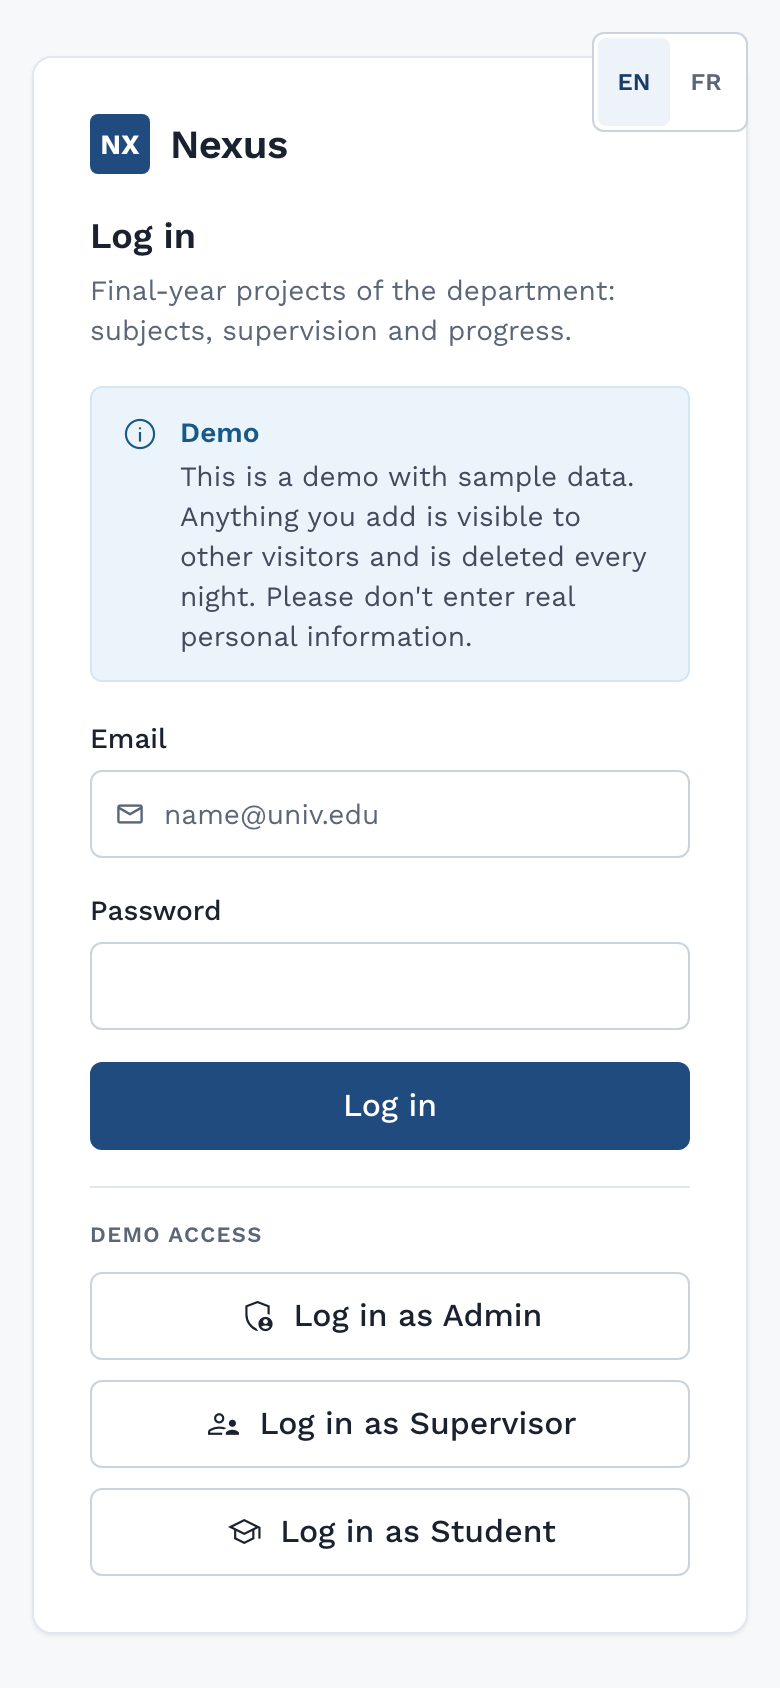
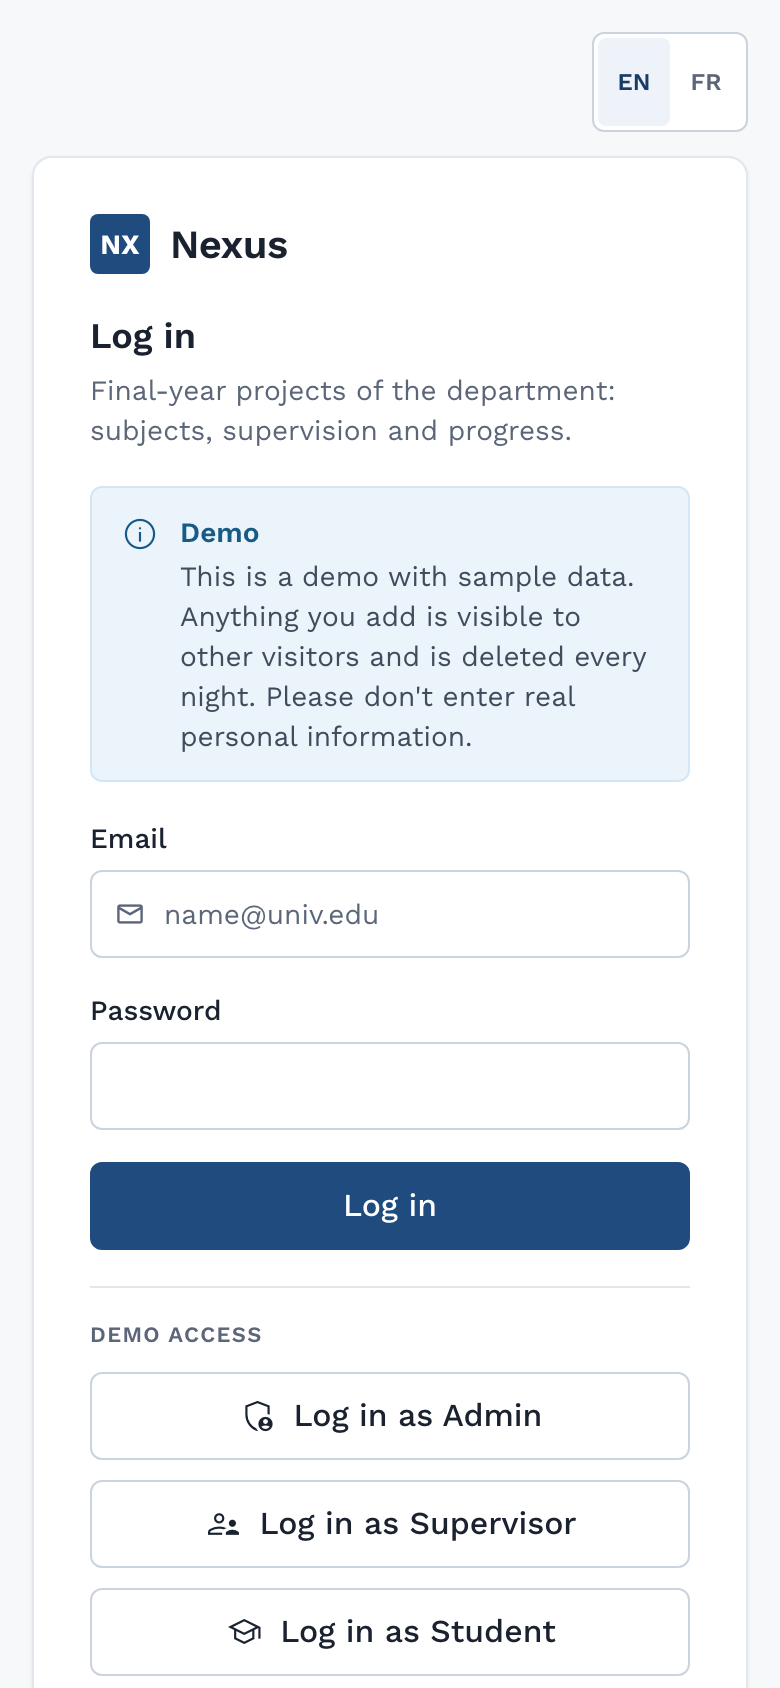
Wire screenshot batch 2: mobile demo galleries and Nexus
Eight phone shots per mobile demo (the rest kept as commented entries),
ten Nexus shots with EN/FR alt text; README status updated.

diff --git a/content/projects/depogro/meta.ts b/content/projects/depogro/meta.ts
@@ -39,26 +39,27 @@ const meta: ProjectMeta = {
   liveUrl: null,
   shots: shotsFor("depogro", [
     ["client-home-mobile", "Shop home in French: a promotion banner, offers and the catalogue.", "Accueil de la boutique en français : bannière de promotion, offres et catalogue."],
-    ["intro-mobile", "Opening screen with the sample-data notice in Arabic, French and English.", "Écran d'ouverture avec l'avis sur les données d'exemple en arabe, français et anglais."],
-    ["onboarding-mobile", "Onboarding screen with a language choice and the sign-in button.", "Écran de présentation avec le choix de la langue et le bouton de connexion."],
     ["role-picker-mobile", "Demo login: choose Client, Sales rep or Deliverer.", "Connexion de démo : choisir Client, Commercial ou Livreur."],
     ["client-category-mobile", "Oils and preserves category with prices and add-to-cart buttons.", "Catégorie huiles et conserves, avec prix et boutons d'ajout au panier."],
     ["client-product-mobile", "Product page with the unit price and bulk discounts.", "Fiche produit avec le prix unitaire et les remises par quantité."],
     ["client-cart-mobile", "Shop's cart with quantities, totals and the minimum order amount.", "Panier de la boutique avec quantités, totaux et montant minimum de commande."],
-    ["client-orders-mobile", "Order history with the status and amount of each order.", "Historique des commandes avec le statut et le montant de chaque commande."],
     ["client-tracking-mobile", "Order tracking: pending, confirmed, shipped and delivered steps.", "Suivi de commande : étapes en attente, confirmée, expédiée et livrée."],
     ["client-home-ar-mobile", "The same shop home in Arabic, laid out right to left.", "Le même accueil de boutique en arabe, de droite à gauche."],
-    ["rep-clients-mobile", "Sales rep's list of client shops with an \"Add a client\" button.", "Liste des boutiques clientes du commercial avec un bouton « Ajouter un client »."],
-    ["rep-cart-mobile", "Sales rep's cart for an order taken on a client's behalf.", "Panier du commercial pour une commande passée au nom d'un client."],
-    ["rep-profile-mobile", "Sales rep's profile with progress toward the sales target.", "Profil du commercial avec la progression vers l'objectif de ventes."],
     ["deliverer-dashboard-mobile", "Deliverer dashboard with availability and four tiles: completed, pending, collected and earnings.", "Tableau de bord du livreur avec sa disponibilité et quatre tuiles : terminées, en attente, encaissé et gains."],
-    ["deliverer-deliveries-mobile", "Deliverer's assigned deliveries with Accept buttons.", "Livraisons assignées au livreur avec des boutons Accepter."],
     ["admin-orders", "Admin dashboard: orders with their status and filters.", "Tableau de bord : les commandes avec leur statut et des filtres."],
     ["admin-order-detail", "Order detail in the admin dashboard, with the customer, items and status.", "Détail d'une commande dans le tableau de bord, avec le client, les articles et le statut."],
     ["admin-order-shipped", "The same order after it is marked as shipped.", "La même commande après son passage au statut expédiée."],
     ["admin-products", "Product catalogue in the admin dashboard.", "Catalogue des produits dans le tableau de bord."],
     ["admin-ambassadors", "Ambassadors in the admin dashboard, with their sales progress.", "Les ambassadeurs dans le tableau de bord, avec leur progression des ventes."],
     ["admin-ads", "Ads shown in the app, managed from the admin dashboard.", "Les publicités affichées dans l'application, gérées depuis le tableau de bord."],
+    // More screenshots in public/shots/depogro/, not shown in the gallery (uncomment to show):
+    // ["intro-mobile", "Opening screen with the sample-data notice in Arabic, French and English.", "Écran d'ouverture avec l'avis sur les données d'exemple en arabe, français et anglais."],
+    // ["onboarding-mobile", "Onboarding screen with a language choice and the sign-in button.", "Écran de présentation avec le choix de la langue et le bouton de connexion."],
+    // ["client-orders-mobile", "Order history with the status and amount of each order.", "Historique des commandes avec le statut et le montant de chaque commande."],
+    // ["rep-clients-mobile", "Sales rep's list of client shops with an \"Add a client\" button.", "Liste des boutiques clientes du commercial avec un bouton « Ajouter un client »."],
+    // ["rep-cart-mobile", "Sales rep's cart for an order taken on a client's behalf.", "Panier du commercial pour une commande passée au nom d'un client."],
+    // ["rep-profile-mobile", "Sales rep's profile with progress toward the sales target.", "Profil du commercial avec la progression vers l'objectif de ventes."],
+    // ["deliverer-deliveries-mobile", "Deliverer's assigned deliveries with Accept buttons.", "Livraisons assignées au livreur avec des boutons Accepter."],
   ]),
   tryThis: {
     en: [

diff --git a/content/projects/membership-app/meta.ts b/content/projects/membership-app/meta.ts
@@ -40,19 +40,20 @@ const meta: ProjectMeta = {
   liveUrl: null,
   shots: shotsFor("membership-app", [
     ["member-home-mobile", "Member home: level, weekly challenge, orders, coin balance and the main modules.", "Accueil du membre : niveau, défi de la semaine, commandes, solde de pièces et modules principaux."],
-    ["intro-mobile", "Opening screen with the sample-data notice and a Continue button.", "Écran d'ouverture avec l'avis sur les données d'exemple et un bouton Continuer."],
     ["role-picker-mobile", "Demo login: choose Member, Coach or Founder, no password.", "Connexion de démo : choisir Membre, Coach ou Fondateur, sans mot de passe."],
     ["member-academy-mobile", "Academy: tracks to choose from and the chapters of the current track.", "Académie : les parcours au choix et les chapitres du parcours en cours."],
     ["member-chapter-mobile", "A chapter with its lessons, progress and the chapter quiz.", "Un chapitre avec ses leçons, la progression et le quiz du chapitre."],
     ["member-majlis-mobile", "Community hub with stats, a members-only room and chat rooms.", "Espace communauté avec statistiques, salon réservé aux membres et salons de discussion."],
-    ["member-fitness-mobile", "Fitness coaching: find a coach, the member's coach and subscription, and categories.", "Coaching sportif : trouver un coach, le coach et l'abonnement du membre, et les catégories."],
-    ["member-profile-mobile", "Member profile with level, XP, score and the next target.", "Profil du membre avec niveau, XP, score et prochain objectif."],
     ["member-home-ar-mobile", "The member home in Arabic, laid out right to left.", "L'accueil du membre en arabe, de droite à gauche."],
-    ["coach-dashboard-mobile", "Coach dashboard with active clients, pending intakes, messages and monthly revenue.", "Tableau de bord du coach : clients actifs, admissions en attente, messages et revenus du mois."],
-    ["coach-clients-mobile", "Coach's client list filtered by status.", "Liste des clients du coach, filtrée par statut."],
     ["coach-intake-review-mobile", "Intake review: the client's plan, details, goals and lifestyle before approval.", "Examen d'une admission : formule, informations, objectifs et mode de vie du client avant validation."],
     ["founder-reports-mobile", "Founder's moderation queue with reported messages and actions.", "File de modération du fondateur avec les messages signalés et les actions."],
-    ["founder-team-mobile", "Team page: invite by email, pending invitations and members.", "Page équipe : invitation par e-mail, invitations en attente et membres."],
+    // More screenshots in public/shots/membership-app/, not shown in the gallery (uncomment to show):
+    // ["intro-mobile", "Opening screen with the sample-data notice and a Continue button.", "Écran d'ouverture avec l'avis sur les données d'exemple et un bouton Continuer."],
+    // ["member-fitness-mobile", "Fitness coaching: find a coach, the member's coach and subscription, and categories.", "Coaching sportif : trouver un coach, le coach et l'abonnement du membre, et les catégories."],
+    // ["member-profile-mobile", "Member profile with level, XP, score and the next target.", "Profil du membre avec niveau, XP, score et prochain objectif."],
+    // ["coach-dashboard-mobile", "Coach dashboard with active clients, pending intakes, messages and monthly revenue.", "Tableau de bord du coach : clients actifs, admissions en attente, messages et revenus du mois."],
+    // ["coach-clients-mobile", "Coach's client list filtered by status.", "Liste des clients du coach, filtrée par statut."],
+    // ["founder-team-mobile", "Team page: invite by email, pending invitations and members.", "Page équipe : invitation par e-mail, invitations en attente et membres."],
   ]),
   tryThis: {
     en: [

diff --git a/content/projects/delivair/meta.ts b/content/projects/delivair/meta.ts
@@ -38,7 +38,6 @@ const meta: ProjectMeta = {
   liveUrl: null,
   shots: shotsFor("delivair", [
     ["home-mobile", "Home screen: a plane over a pink and green sky, with From and To fields to search for travellers.", "Écran d'accueil : un avion sur un ciel rose et vert, avec les champs Départ et Arrivée pour chercher des voyageurs."],
-    ["intro-mobile", "Opening screen with the sample-data notice and a Continue button.", "Écran d'ouverture avec l'avis sur les données d'exemple et un bouton Continuer."],
     ["login-mobile", "Login screen with the \"Continue as demo user\" button.", "Écran de connexion avec le bouton pour continuer en utilisateur de démo."],
     ["search-rules-mobile", "Search from Tunis to Paris, with stacked cards on luggage rules before confirming.", "Recherche de Tunis à Paris, avec des cartes empilées sur les règles des bagages avant de confirmer."],
     ["search-flight-mobile", "Search animation: the plane flies while the app looks for travellers.", "Animation de recherche : l'avion vole pendant que l'application cherche des voyageurs."],
@@ -49,6 +48,8 @@ const meta: ProjectMeta = {
     ["admin-dashboard", "Admin dashboard with monthly charts of users and trips.", "Tableau de bord d'administration avec les graphiques mensuels des utilisateurs et des trajets."],
     ["admin-users", "Admin list of users with city, phone, email and rating.", "Liste d'administration des utilisateurs avec ville, téléphone, e-mail et note."],
     ["admin-trips", "Admin list of posted trips with route, dates, contents and weight.", "Liste d'administration des trajets publiés avec trajet, dates, contenu et poids."],
+    // More screenshots in public/shots/delivair/, not shown in the gallery (uncomment to show):
+    // ["intro-mobile", "Opening screen with the sample-data notice and a Continue button.", "Écran d'ouverture avec l'avis sur les données d'exemple et un bouton Continuer."],
   ]),
   tryThis: {
     en: [

diff --git a/content/projects/nexus/meta.ts b/content/projects/nexus/meta.ts
@@ -38,8 +38,20 @@ const meta: ProjectMeta = {
     url: null
   },
   liveUrl: null,
-  // TODO (shots batch 2/3): add screenshots with shotsFor("nexus", [...]).
-  shots: shotsFor("nexus", []),
+  shots: shotsFor("nexus", [
+    ["admin-dashboard-desktop", "Admin dashboard with statistics on projects, students and supervisors.", "Tableau de bord administrateur avec les statistiques des projets, étudiants et encadrants."],
+    ["pfes-desktop", "List of final-year projects with status, student and supervisor.", "Liste des projets de fin d'études avec statut, étudiant et encadrant."],
+    ["pfe-detail-desktop", "A project page: status, progress, people and deliverables.", "Page d'un projet : statut, progression, personnes et livrables."],
+    ["archive-search-desktop", "Archive search across past years, filtered by a keyword.", "Recherche dans les archives des années passées, filtrée par mot-clé."],
+    ["supervisor-dashboard-desktop", "Supervisor dashboard with the projects they follow.", "Tableau de bord de l'encadrant avec les projets qu'il suit."],
+    ["student-my-pfe-desktop", "Student view of their own project and its progress.", "Vue étudiant de son projet et de sa progression."],
+    ["admin-dashboard-fr-desktop", "The admin dashboard in French.", "Le tableau de bord administrateur en français."],
+    ["login-desktop", "Login page with the demo notice and the three demo-login buttons.", "Page de connexion avec l'avis de démo et les trois boutons de connexion de démo."],
+    ["student-my-pfe-mobile", "Student project view on a phone.", "Vue du projet étudiant sur téléphone."],
+    ["login-mobile", "Login page on a phone.", "Page de connexion sur téléphone."],
+    // More screenshots in public/shots/nexus/, not shown in the gallery (uncomment to show):
+    // ["archive-fr-desktop", "The archive in French.", "Les archives en français."],
+  ]),
   architecture: [
     {
       title: "Client",

diff --git a/README.md b/README.md
@@ -2,7 +2,7 @@
 
 The portfolio site of Amine Amdouni, full-stack developer: mobile apps, full-stack products, e-commerce projects and client sites, each with an interactive demo, a live demo, screenshots or a link to the live site. English and French, light and dark.
 
-Status: content in place. All 18 write-ups (EN/FR), demo and live URLs are set. Projects still waiting for screenshots (see `shots: shotsFor("<slug>", [])` in their `meta.ts`) show marked placeholder images.
+Status: content in place. All 18 write-ups (EN/FR), demo and live URLs and screenshots are set, except Sift's screenshots (`shots: shotsFor("sift", [])`), whose gallery shows marked placeholder images until they exist.
 
 ## Stack
 
